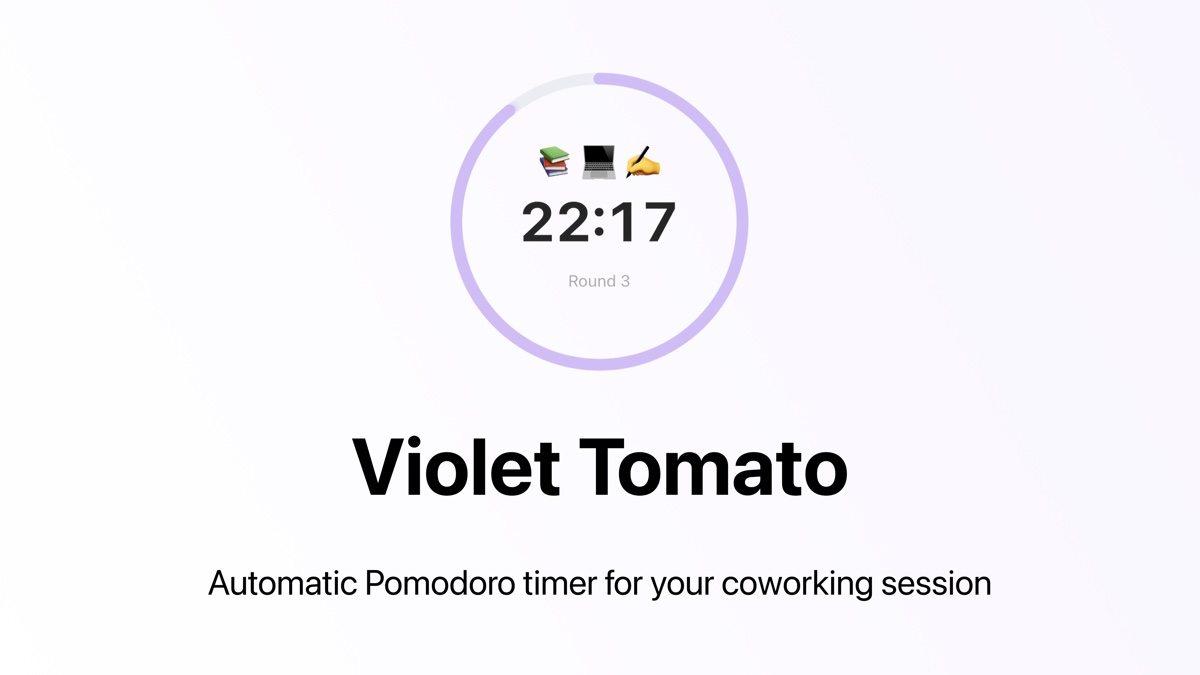
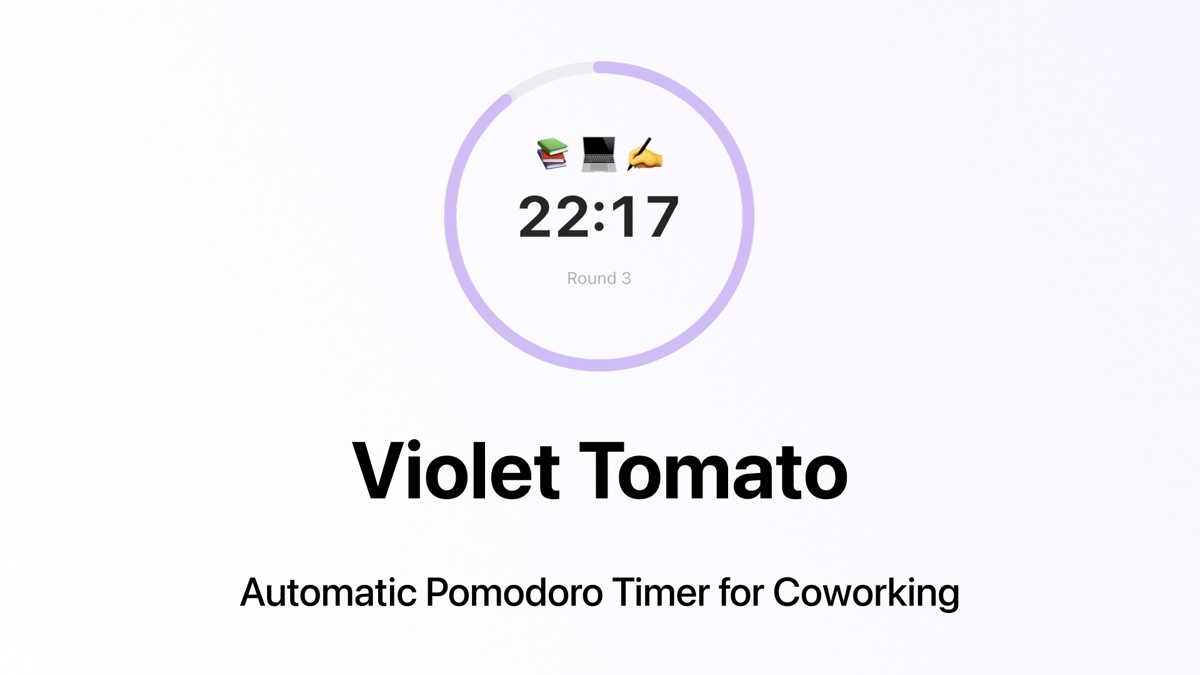
Update the link-preview image to the new cover

diff --git a/index.html b/index.html
@@ -16,7 +16,7 @@
 <meta property="og:image" content="https://elenakovelskikh.github.io/pomodoro-timer/og-image.jpg" />
 <meta property="og:image:width" content="1200" />
 <meta property="og:image:height" content="675" />
-<meta property="og:image:alt" content="Violet Tomato: a timer ring showing 22:17, Round 3. Automatic Pomodoro timer for your coworking session." />
+<meta property="og:image:alt" content="Violet Tomato: a timer ring showing 22:17, Round 3. Automatic Pomodoro Timer for Coworking." />
 <meta name="twitter:card" content="summary_large_image" />
 <meta name="twitter:image" content="https://elenakovelskikh.github.io/pomodoro-timer/og-image.jpg" />
 <meta name="twitter:title" content="Violet Tomato – Automatic Pomodoro Focus Timer" />
